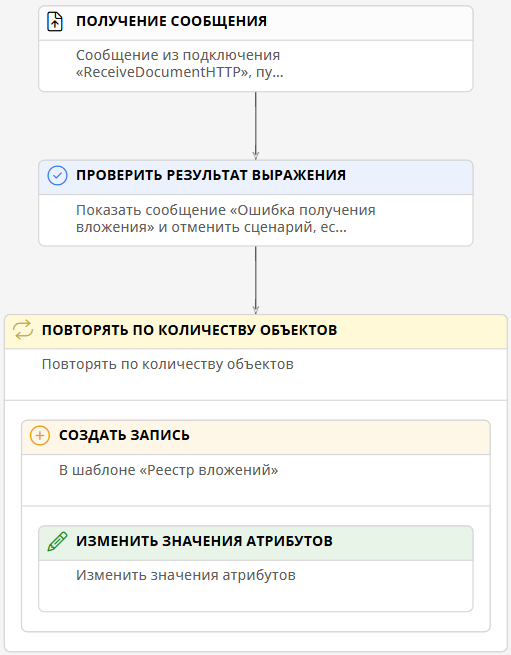
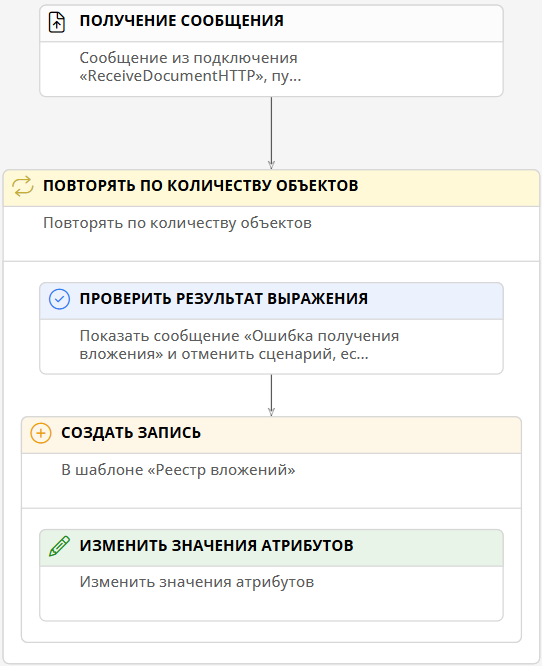
[#1706320] Edited http_receive_file.md

diff --git a/docs/ru/administration/connections_communication_routes/rest_odata_connections/http_receive_file.md b/docs/ru/administration/connections_communication_routes/rest_odata_connections/http_receive_file.md
@@ -1,0 +1,187 @@
+---
+title: Получение составного содержимого через HTTP-запросы
+kbId:
+tags:
+    - получение документов по HTTP
+    - получение файлов по HTTP
+    - составное содержимое
+    - файлы
+hide:
+    - tags
+---
+
+# Получение составного содержимого через HTTP-запросы {: #http_receive_file}
+
+## Введение
+
+**{{ productName }}** может получать составное содержимое с помощью встроенного HTTP-адаптера.
+
+Здесь представлены инструкции по настройке подключения, пути передачи данных, шаблона записи и сценария для получения запросов в формате `JSON` с составным содержимым и прикреплёнными файлами.
+
+## Прикладная задача
+
+Имеется шаблон _«Реестр вложений»_, содержащий записи с прикреплёнными файлами.
+
+Требуется настроить создание записей в шаблоне, получение файлов из внешней системы с помощью HTTP-запроса и добавление их в записи.
+
+## Настройка подключения
+
+1. Откройте страницу «**Администрирование**» — «**Подключения**».
+2. Откройте двойным нажатием или создайте «**Подключения REST и OData**» — «**Получение HTTP-запросов**».
+3. Настройте подключение к серверу:
+
+    - **Системное имя** — введите уникальное имя подключения.
+    --8<-- "system_name_requirements.md:no_autofill"
+    - **Отключить** — установите этот флажок, если требуется временно деактивировать данное подключение.
+    - **Описание** — введите наглядное описание подключения, например _«Подключение для получения файлов по HTTP»_.
+    - **Запись в файловые журналы** — выберите, какие события следует записывать в журналы:
+        - **Полные сведения об обработке сообщения**;
+        - **Только ошибки**;
+        - **Отключить** — не регистрировать в журнале события получения запросов.
+    - **URI** — укажите адрес сервера, от которого будут отправляться запросы.
+    - **Формат данных** — выберите формат **JSON**.
+    - **Кодировка данных** — укажите формат кодировки данных, используемый сервером, по умолчанию: **UTF-8**.
+    - **Тип аутентификации** — выберите способ проверки подлинности, используемый сервером:
+        - **Отсутствует**;
+        - **Базовая**;
+        - **Аутентификация Windows**.
+
+4. Нажмите кнопку «**Проверить соединение**», чтобы проверить соединение с сервером.
+5. При необходимости нажмите кнопку «**Скачать журнал**», чтобы просмотреть журнал событий получения писем.
+6. Сохраните подключение.
+
+## Настройка пути передачи данных
+
+1. Откройте страницу «**Администрирование**» — «**Архитектура**» или страницу «**Администрирование**» приложения.
+2. Выберите пункт «[**Пути передачи данных**][communication_routes]» <i class="fa-light fa-route " aria-hidden="true"></i>.
+3. Откройте двойным нажатием в списке или создайте путь передачи данных типа «**Подключения REST и OData**» — «**Получение HTTP-запросов**».
+4. Настройте свойства пути передачи данных на следующих вкладках:
+
+    - [**Основные свойства**](#основные-свойства)
+    - [**Атрибуты сообщений**](#атрибуты-сообщений)
+    - [**Интеграция**](#интеграция)
+
+5. Сохраните путь передачи данных.
+
+### Основные свойства
+
+На вкладке «**Основные свойства**» настройте параметры использования пути передачи данных:
+
+- **Подключение** — выберите [подключение для отправки HTTP-запросов](#настройка-подключения).
+- **Системное имя** — введите уникальное имя пути передачи данных.
+--8<-- "system_name_requirements.md:no_autofill"
+- **Отключить** — установите этот флажок, если требуется временно деактивировать путь передачи данных.
+- **Описание** — введите наглядное описание пути передачи данных, например _«Получение файлов по HTTP»_.
+
+### Атрибуты сообщений
+
+!!! warning "Составление атрибутов сообщения типа «Объект»"
+
+    Чтобы составить атрибут сообщения типа «**Объект**», необходимо создать переменную с такой же структурой, как у атрибута сообщения, создав дочерние переменные:
+
+    - Создайте переменную, оставив её значение пустым.
+    - Установите флажок у имени родительской переменной в списке и нажмите кнопку «**Создать**».
+    - Дважды нажмите значок <i class="fa-light fa-angle-down anchor"></i> рядом с родительской переменной.
+    - В таблице отобразится дочерняя переменная.
+
+1. Выберите тип сообщения «**Обработка HTTP-запросов с составным содержимым**».
+2. В таблицу «**Запрос**» добавьте атрибут _File_ типа «**Объект**».
+3. Добавьте дочерние атрибуты _Name_ и _Content_ типа «**Строка**».
+
+### Интеграция
+
+На вкладке «**Интеграция**» настройте дополнительные свойства пути передачи данных.
+
+В таблицу «**Укажите атрибуты для преобразования составного содержимого запроса**» добавьте атрибут со следующими свойствами:
+
+- **Имя атрибута:** _File_
+- **Формат данных: файл**
+
+## Настройка шаблона записи и сценария
+
+### Настройка шаблона записи
+
+1. Создайте шаблон записи _«Реестр вложений»_.
+2. Создайте атрибут _«Вложение»_ типа «**Документ**».
+3. Добавьте атрибут _«Вложение»_ на форму.
+
+### Настройка сценария
+
+1. Создайте новый сценарий _«Получение документов через HTTP»_.
+2. Откройте автоматически созданное событие «**Нажатие кнопки**» и настройте его следующим образом:
+
+    - **Тип: получение сообщения**;
+    - **Контекстный шаблон:** _Реестр вложений_;
+    - **Подключение:** выберите [подключение для получения документов с помощью HTTP-запросов](#настройка-подключения);
+    - **Путь передачи данных:** выберите [путь передачи данных для получения документов с помощью HTTP-запросов](#настройка-пути-передачи-данных);
+    - **Имя переменной:** _Files_ — в эту переменную будет сохраняться объект с полученными данными.
+
+3. Добавьте действие «**Повторять по количеству объектов**» со следующими свойствами:
+
+    - **Переменная:** _File_
+    - **Атрибут или выражение для поиска объектов: формула**
+
+        ``` cs
+        $$Files->File
+        ```
+
+4. Добавьте действие «**Проверить результат выражения**» внутрь действия «**Повторять по количеству объектов**» со следующими свойствами:
+
+    - **Сообщение об ошибке:** _Ошибка получения вложения_
+    - **Выражение: N3**
+
+        ``` turtle
+        # Импортируем функции для работы с данными текущего сеанса и переменными
+        @prefix document: <http://comindware.com/ontology/document#>.
+        @prefix variable: <http://comindware.com/ontology/session/variable#>.
+        @prefix operator: <http://comindware.com/ontology/session/operator#>.
+        @prefix session: <http://comindware.com/ontology/session#>.
+        {
+            # Находим переменную File из предыдущего действия
+            # и помещаем её в локальную переменную ?File
+            session:context variable:File ?File.
+            # Из ?File достаём содержимое файла
+            # и помещаем его в переменную ?Content
+            ?File variable:Content ?Content.
+            # Из ?File достаём название файла
+            # и помещаем его в переменную ?Name
+            ?File variable:Name ?Name.
+            # Помещаем файл в ?document
+            (?Content ?Name) document:attach ?document.
+            # Заменяем переменную document содержимым ?document
+            variable:document operator:replace ?document.
+            # Возвращаем значение true
+            true -> ?value.
+        }
+        ```
+
+5. Внутрь действия «**Повторять по количеству объектов**» добавьте действие «**Создать запись**» для контекстного шаблона _«Реестр вложений»_.
+6. Добавьте действие «**Изменить значение атрибутов**» внутрь действия «**Создать запись**» со следующими свойствами:
+
+    - **Атрибут:** _«Вложение»_
+    - **Операция со значениями:** заменить
+    - **Значение: формула**
+
+        ``` cs
+        $$document
+        ```
+
+_![Сценарий получения вложений с помощью HTTP-запросов](img/http_receive_file_scenario.png)_
+
+## Тестирование
+
+1. Отправьте HTTP-запрос с файлом с сервера, указанного в [подключении](#настройка-подключения).
+2. Перейдите к записям шаблона _«Реестр вложений»_.
+3. Откройте новую запись.
+4. В поле _«Вложение»_ отобразится отправленный файл.
+
+<div class="relatedTopics" markdown="block">
+
+--8<-- "related_topics_heading.md"
+
+- _[Получение HTTP-запросов с обработкой JSON-запросов][receive_http_example]_
+- _[HTTP-запросы типа POST. Отправка составного содержимого и файлов][http_send_file]_
+
+</div>
+
+{% include-markdown ".snippets/hyperlinks_mkdocs_to_kb_map.md" %}
